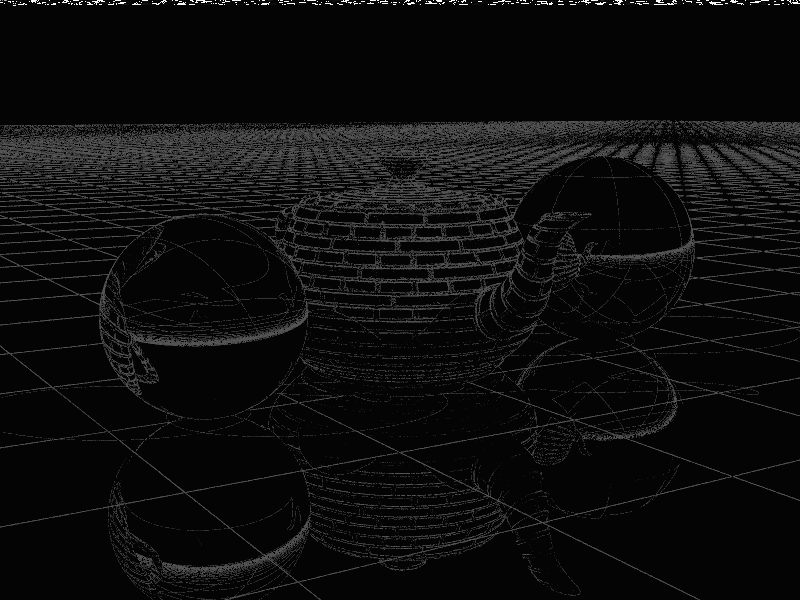
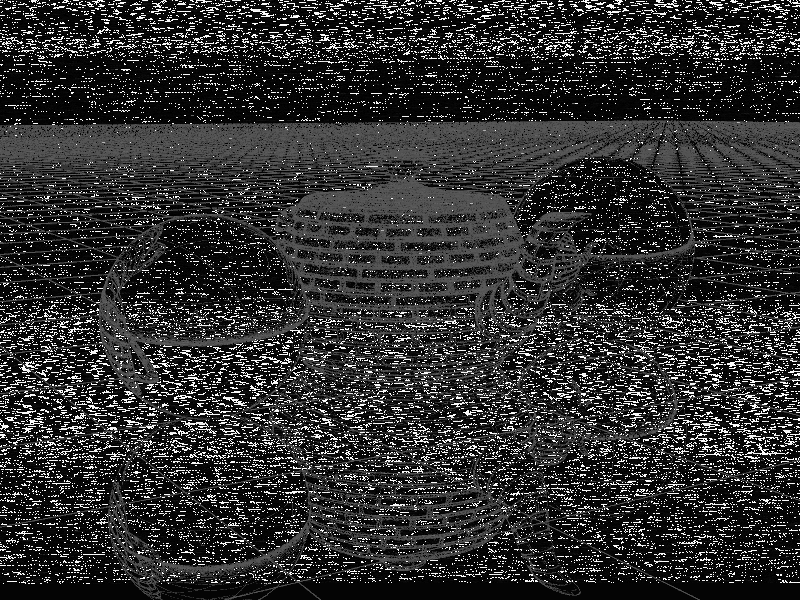
No longer judgging by gray level, but r,g,b

diff --git a/BHRayTracer/Main.cpp b/BHRayTracer/Main.cpp
@@ -31,7 +31,7 @@ Vec3f dd_y;
 
 #define USE_MSAA
 #ifdef USE_MSAA
-#define MSAA_AdaptiveThreshold_Sqr 0.02f * 0.02f
+#define MSAA_AdaptiveThreshold_Sqr 0.01f * 0.01f
 #define  MSAA_RayCountPerSlot 4
 #define  MSAA_AddadptiveStopLevel 3
 #endif // USE_MSAA
@@ -99,9 +99,9 @@ Color JitteredAddaptiveSampling(Vec3f pixelCenter, int level, int i_i, int i_j) 
 	renderImage.GetSampleCount()[i_j*camera.imgWidth + i_i] += MSAA_RayCountPerSlot;
 	Color overallColor = Color::Black();
 	// square of variance
-	float varianceSqr = 1;
-	// average of gray channel
-	float average;
+	float varianceSqr[3] = { 1 ,1, 1 };
+	// average of r,g,b channel
+	float average[3];
 
 	Color subPixelColor[] = { Color::Black() ,Color::Black() ,Color::Black() ,Color::Black() };
 	Color subPixelColor_Sum = Color::Black();
@@ -143,38 +143,38 @@ Color JitteredAddaptiveSampling(Vec3f pixelCenter, int level, int i_i, int i_j) 
 		subPixelColor_Sum += subPixelColor[i];
 	}
 	// Get the average color of 4 sub-pixels
-	average = subPixelColor_Sum.Sum() / (3.f * MSAA_RayCountPerSlot);
-	float variance_Sum = 0;
+	average[0] = subPixelColor_Sum.r / (MSAA_RayCountPerSlot);
+	average[1] = subPixelColor_Sum.g / (MSAA_RayCountPerSlot);
+	average[2] = subPixelColor_Sum.b / (MSAA_RayCountPerSlot);
+
+	float variance_Sum[3] = { 0,0,0 };
 	for (int i = 0; i < 4; i++)
 	{
-		variance_Sum += (subPixelColor[i].Sum() / 3.f - average) * (subPixelColor[i].Sum() / 3.f - average);
+		variance_Sum[0] += (subPixelColor[i].r - average[0]) * (subPixelColor[i].r - average[0]);
+		variance_Sum[1] += (subPixelColor[i].g - average[1]) * (subPixelColor[i].g - average[1]);
+		variance_Sum[2] += (subPixelColor[i].b - average[2]) * (subPixelColor[i].b - average[2]);
 	}
-	varianceSqr = variance_Sum / MSAA_RayCountPerSlot;
+	varianceSqr[0] = variance_Sum[0] / MSAA_RayCountPerSlot;
+	varianceSqr[1] = variance_Sum[1] / MSAA_RayCountPerSlot;
+	varianceSqr[2] = variance_Sum[2] / MSAA_RayCountPerSlot;
+
 	float widthPerSubPixel = level * MSAA_RayCountPerSlot;
 	// top left
-	if (varianceSqr > MSAA_AdaptiveThreshold_Sqr && level < MSAA_AddadptiveStopLevel) {
+	if (
+		(varianceSqr[0] > MSAA_AdaptiveThreshold_Sqr ||
+		varianceSqr[1] > MSAA_AdaptiveThreshold_Sqr ||
+		varianceSqr[2] > MSAA_AdaptiveThreshold_Sqr)
+		&& level < MSAA_AddadptiveStopLevel
+		) {
 		// return the mean color of all sub pixel
-		return (	
+		return (
 			JitteredAddaptiveSampling(pixelCenter - dd_x / widthPerSubPixel - dd_y / widthPerSubPixel, level, i_i, i_j) +
 			JitteredAddaptiveSampling(pixelCenter + dd_x / widthPerSubPixel - dd_y / widthPerSubPixel, level, i_i, i_j) +
 			JitteredAddaptiveSampling(pixelCenter - dd_x / widthPerSubPixel + dd_y / widthPerSubPixel, level, i_i, i_j) +
 			JitteredAddaptiveSampling(pixelCenter + dd_x / widthPerSubPixel + dd_y / widthPerSubPixel, level, i_i, i_j)
 			) / MSAA_RayCountPerSlot;
 	}
-/*
-	//	
-	// top right
-	if (abs(subPixelColor[1].Sum() - variance) > MSAA_AdaptiveThreshold_Sqr && level < MSAA_AddadptiveStopLevel) {
-		subPixelColor[1] = JitteredAddaptiveSampling(pixelCenter + dd_x / widthPerSubPixel - dd_y / widthPerSubPixel, level, i_i, i_j);
-	}
-	// bottom left
-	if (abs(subPixelColor[2].Sum() - variance) > MSAA_AdaptiveThreshold_Sqr && level < MSAA_AddadptiveStopLevel) {
-		subPixelColor[2] = JitteredAddaptiveSampling(pixelCenter - dd_x / widthPerSubPixel + dd_y / widthPerSubPixel, level, i_i, i_j);
-	}
-	// bottom right
-	if (abs(subPixelColor[3].Sum() - variance) > MSAA_AdaptiveThreshold_Sqr && level < MSAA_AddadptiveStopLevel) {
-		subPixelColor[3] = JitteredAddaptiveSampling(pixelCenter + dd_x / widthPerSubPixel + dd_y / widthPerSubPixel, level, i_i, i_j);
-	}*/
+
 	return subPixelColor_Sum / MSAA_RayCountPerSlot;
 }
 
@@ -226,7 +226,7 @@ void BeginRender() {
 			//renderImage.GetZBuffer()[j*camera.imgWidth + i] = outHit.z;
 			renderImage.IncrementNumRenderPixel(1);
 			//printf("Percent: %f\n", renderImage.GetNumRenderedPixels() / (float)(renderImage.GetWidth() * renderImage.GetHeight()));
-}
+		}
 	}
 	renderImage.ComputeZBufferImage();
 	renderImage.SaveImage("Resource/Result/prj8.png");
